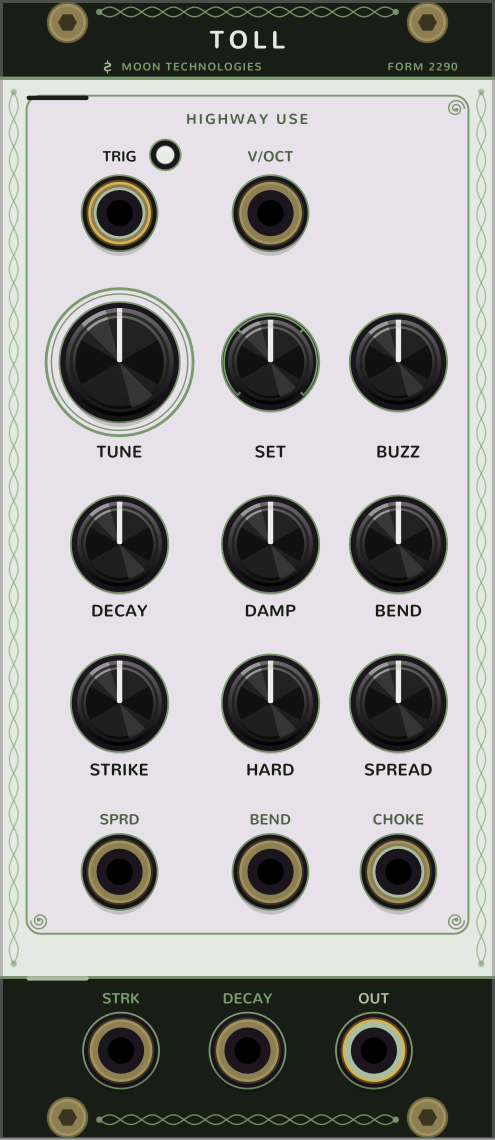
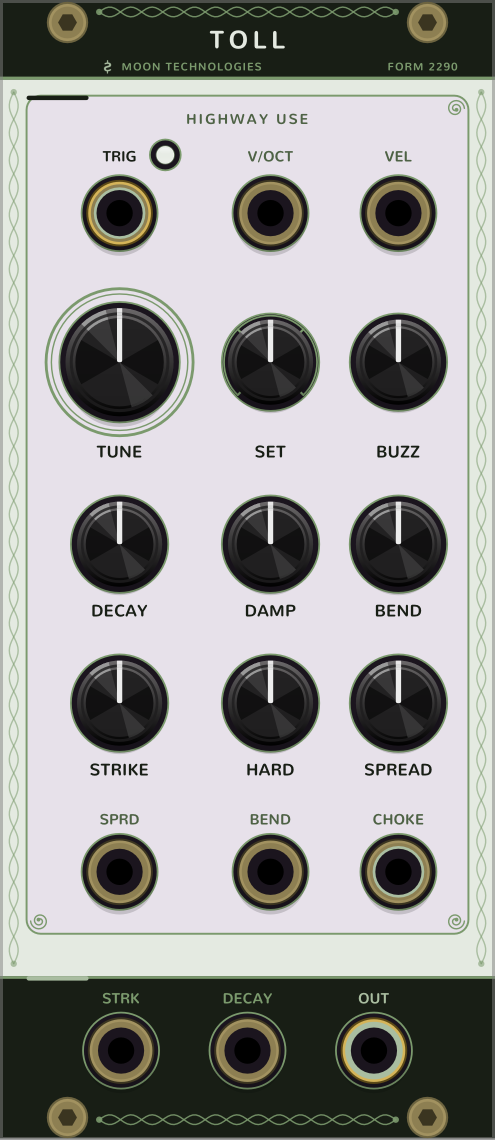
Toll: a VEL jack, for the velocity the voice always took
Item 11 of the backlog. The room was the empty cell beside V/OCT, and the
right thing to put in it turned out to be already half-built: Toll's voice
signature has taken a velocity all along, and the module called it as
voice.process(hit, 1.f, ...) -- pinned at full force, with nothing on the
panel able to say otherwise. The panel spec and the manual both already
described behaviour that could not happen: "a soft strike is a clean ring and
a hard one clatters".

VEL sits in that cell, read at the strike and nowhere else, because a strike
is an instant and what the jack does between two of them cannot matter.
Unpatched is full force, so 10 V and no cable are the same sound and no
existing patch changes. 0 V is a ghost note rather than silence: a velocity of
literally zero is a strike that never lands, and a trigger arriving while some
modulation happens to be resting at zero would read as a broken patch.

The context menu -- Toll's first -- offers TRIG's own height as the velocity
instead, since an accented trigger out of a sequencer is one cable rather than
two and the Schmitt that finds the edge throws that height away. A cable in
VEL always wins.

Five checks in tests/Toll, all watched failing. Writing them corrected what I
thought velocity did here. The claim I set out to test was that a softer
strike is duller because contact time lengthens -- and measured, that is
false: level-matched, a soft strike is very slightly *brighter*, uniformly
[…]

Changed region(s): [[0.7273, 0.1228, 0.8788, 0.2456]]

diff --git a/tests/Toll/test_voice.cpp b/tests/Toll/test_voice.cpp
@@ -386,6 +386,127 @@ static void tracking() {
 }
 
 
+/** Peak absolute value of a render. */
+static double peakOf(const float* y, int n) {
+	double p = 0.0;
+	for (int i = 0; i < n; i++) if (std::fabs(y[i]) > p) p = std::fabs(y[i]);
+	return p;
+}
+
+/** VELOCITY.
+
+    The voice always took a velocity and the panel could never set it -- it ran
+    pinned at full force -- so this is the first time any of it is exercised.
+    Two properties matter and they are different properties: that a softer
+    strike is quieter, and that it is also *duller*. The second is the reason
+    velocity is worth a jack at all. Contact time is 1/(0.6 + 0.4v), so a soft
+    strike rests on the object longer and cannot push energy as far up the
+    partial bank; if velocity were only a gain, the two renders would be the
+    same sound at two levels and the level check alone would not notice. */
+static void velocity() {
+	static const int kN = 40000;
+	static float soft[kN], hard[kN];
+	const float fs = 44100.f;
+
+	// --- the mapping ---------------------------------------------------------
+	{
+		bool ok = Toll::velocityFrom(10.f) == 1.f          // patched full = unpatched
+		       && Toll::velocityFrom(12.f) == 1.f          // and above it, clamped
+		       && Toll::velocityFrom(5.f) > 0.49f && Toll::velocityFrom(5.f) < 0.51f
+		       && Toll::velocityFrom(0.f) == kVelFloor     // a ghost note, not silence
+		       && Toll::velocityFrom(-8.f) == kVelFloor;
+		checks++;
+		if (!ok) fail("velocity mapping", "0-10 V does not map to the floor..1");
+	}
+
+	// --- a softer strike is quieter, all the way down ------------------------
+	{
+		Toll v; v.setRate(fs);
+		double prev = 1e9; int bad = 0;
+		for (int i = 10; i >= 1; i--) {
+			float vel = (float)i / 10.f;
+			render(v, vel, 2, 0.4f, 0.f, 0.5f, 0.5f, 0.3f, 0.6f, 0.f, 0.f, 0.f,
+			       soft, kN);
+			double pk = peakOf(soft, kN);
+			if (!(pk < prev)) bad++;
+			prev = pk;
+		}
+		checks++;
+		if (bad) fail("velocity", "a softer strike is not quieter");
+	}
+
+	// --- and it clatters, which is not a level difference --------------------
+	// The docstring's claim for BUZZ: "a soft strike is a clean ring and a hard
+	// one clatters". That is Bilbao's one-sided collision -- the loose layer
+	// only speaks once the body swings far enough to reach it -- so it is the
+	// one place velocity changes the *timbre* rather than the level. Both
+	// renders are normalised to the same peak first, so nothing here can be
+	// explained by the hard strike simply being louder.
+	{
+		Toll v; v.setRate(fs);
+		render(v, 1.00f, 2, 0.4f, 0.f, 0.5f, 0.5f, 0.3f, 0.6f, 0.f, 0.f, 0.8f,
+		       hard, kN);
+		render(v, 0.15f, 2, 0.4f, 0.f, 0.5f, 0.5f, 0.3f, 0.6f, 0.f, 0.f, 0.8f,
+		       soft, kN);
+		double ph = peakOf(hard, kN), ps = peakOf(soft, kN);
+		for (int i = 0; i < kN; i++) { hard[i] /= (float)ph; soft[i] /= (float)ps; }
+		double hh = highBand(hard, kN, fs, 2000.f, 0);
+		double hs = highBand(soft, kN, fs, 2000.f, 0);
+		checks++;
+		if (!(hh > hs * 2.0)) {
+			char d[144];
+			snprintf(d, sizeof d,
+			         "buzz up, level-matched: hard %.5f, soft %.5f (%.2fx)",
+			         hh, hs, hs > 0.0 ? hh / hs : 0.0);
+			fail("velocity", d);
+		}
+	}
+
+	// --- and with the layer off, it is a level control and nothing else -------
+	// The other half of the same claim, and the one that says where the
+	// brightness above comes from. With BUZZ at zero there is no collision to
+	// reach, so two velocities have to be the same sound at two levels -- if
+	// this drifted, the clatter check above could be passing on some general
+	// coupling between loudness and brightness rather than on the collision.
+	{
+		Toll v; v.setRate(fs);
+		render(v, 1.00f, 2, 0.4f, 0.f, 0.5f, 0.5f, 0.3f, 0.6f, 0.f, 0.f, 0.f,
+		       hard, kN);
+		render(v, 0.15f, 2, 0.4f, 0.f, 0.5f, 0.5f, 0.3f, 0.6f, 0.f, 0.f, 0.f,
+		       soft, kN);
+		double ph = peakOf(hard, kN), ps = peakOf(soft, kN);
+		for (int i = 0; i < kN; i++) { hard[i] /= (float)ph; soft[i] /= (float)ps; }
+		double hh = highBand(hard, kN, fs, 2000.f, 0);
+		double hs = highBand(soft, kN, fs, 2000.f, 0);
+		double ratio = hs > 0.0 ? hh / hs : 0.0;
+		checks++;
+		if (!(ratio > 0.8 && ratio < 1.25)) {
+			char d[144];
+			snprintf(d, sizeof d,
+			         "buzz off, level-matched: hard %.5f, soft %.5f (%.2fx)",
+			         hh, hs, ratio);
+			fail("velocity", d);
+		}
+	}
+
+	// --- the floor still lands ------------------------------------------------
+	// A trigger that arrives while a velocity CV happens to rest at 0 V has to
+	// make a sound. Silence there reads as a broken patch, not as a soft hit.
+	{
+		Toll v; v.setRate(fs);
+		render(v, Toll::velocityFrom(0.f), 2, 0.4f, 0.f, 0.5f, 0.5f, 0.3f, 0.6f,
+		       0.f, 0.f, 0.f, soft, kN);
+		double pk = peakOf(soft, kN);
+		checks++;
+		if (!(pk > 0.01)) {
+			char d[96];
+			snprintf(d, sizeof d, "0 V strike peaks at %.5f", pk);
+			fail("velocity", d);
+		}
+	}
+}
+
+
 int main() {
 	printf("Toll voice\n");
 	printf("  sweeping 44100 Hz...\n"); sweep(44100.f);
@@ -395,6 +516,7 @@ int main() {
 	printf("  spread...\n");            spreadIsMonotone();
 	printf("  sample rates...\n");      sampleRates();
 	printf("  v/oct...\n");             tracking();
+	printf("  velocity...\n");          velocity();
 	printf("%d checks, %d failures\n", checks, failures);
 	return failures ? 1 : 0;
 }

diff --git a/src/Toll/Toll.cpp b/src/Toll/Toll.cpp
@@ -14,7 +14,9 @@ struct TollModule : Module {
 	};
 	enum InputId {
 		TRIG_INPUT, VOCT_INPUT, STRIKE_CV_INPUT, DECAY_CV_INPUT,
-		SPREAD_CV_INPUT, BEND_CV_INPUT, CHOKE_INPUT, INPUTS_LEN
+		SPREAD_CV_INPUT, BEND_CV_INPUT, CHOKE_INPUT,
+		VEL_INPUT,
+		INPUTS_LEN
 	};
 	enum OutputId { OUT_OUTPUT, OUTPUTS_LEN };
 	enum LightId { HIT_LIGHT, LIGHTS_LEN };
@@ -24,6 +26,7 @@ struct TollModule : Module {
 	dsp::ClockDivider lightDivider;
 	bool litSince = false;
 	float ledLevel = 0.f;
+	bool velFromTrig = false;
 
 	TollModule() {
 		config(PARAMS_LEN, INPUTS_LEN, OUTPUTS_LEN, LIGHTS_LEN);
@@ -42,6 +45,7 @@ struct TollModule : Module {
 
 		configInput(TRIG_INPUT, "Trigger");
 		configInput(VOCT_INPUT, "V/oct");
+		configInput(VEL_INPUT, "Velocity (0-10 V, full force unpatched)");
 		configInput(STRIKE_CV_INPUT, "Strike position CV");
 		configInput(DECAY_CV_INPUT, "Decay CV");
 		configInput(SPREAD_CV_INPUT, "Spread CV");
@@ -66,9 +70,33 @@ struct TollModule : Module {
 		ledLevel = 0.f;
 	}
 
+	json_t* dataToJson() override {
+		json_t* root = json_object();
+		json_object_set_new(root, "velFromTrig", json_boolean(velFromTrig));
+		return root;
+	}
+
+	void dataFromJson(json_t* root) override {
+		json_t* j = json_object_get(root, "velFromTrig");
+		if (j) velFromTrig = json_boolean_value(j);
+	}
+
 	void process(const ProcessArgs& args) override {
-		bool hit = trig.process(inputs[TRIG_INPUT].getVoltage(), 0.1f, 1.f);
+		float trigV = inputs[TRIG_INPUT].getVoltage();
+		bool hit = trig.process(trigV, 0.1f, 1.f);
 		if (hit) litSince = true;
+
+		// How hard. Read at the strike and nowhere else -- a strike is an
+		// instant, so what the jack does between two of them cannot matter.
+		// Unpatched is full force, which is what the voice did before it had
+		// the jack, so no existing patch changes. TRIG's own height is offered
+		// as the alternative because an accented trigger out of a sequencer is
+		// one cable rather than two, and the Schmitt discards that height.
+		float vel = 1.f;
+		if (inputs[VEL_INPUT].isConnected())
+			vel = toll::Toll::velocityFrom(inputs[VEL_INPUT].getVoltage());
+		else if (velFromTrig)
+			vel = toll::Toll::velocityFrom(trigV);
 
 		float volts = inputs[VOCT_INPUT].isConnected() ? inputs[VOCT_INPUT].getVoltage() : 0.f;
 
@@ -93,7 +121,7 @@ struct TollModule : Module {
 		bool choke = inputs[CHOKE_INPUT].getVoltage() >= 1.f;
 		int set = (int)clamp(std::round(params[SET_PARAM].getValue()), 0.f, 3.f);
 
-		float y = voice.process(hit, 1.f, set,
+		float y = voice.process(hit, vel, set,
 			params[TUNE_PARAM].getValue(), volts,
 			dec, params[DAMP_PARAM].getValue(), pos,
 			params[HARD_PARAM].getValue(), spr, bnd,
@@ -125,6 +153,7 @@ struct TollWidget : ModuleWidget {
 
 		addInput(createInputCentered<panel::PortTrigInMain>(panel::mm(panel::TRIG_POS.x, panel::TRIG_POS.y), module, TollModule::TRIG_INPUT));
 		addInput(createInputCentered<panel::PortIn>(panel::mm(panel::VOCT_POS.x, panel::VOCT_POS.y), module, TollModule::VOCT_INPUT));
+		addInput(createInputCentered<panel::PortIn>(panel::mm(panel::VEL_POS.x, panel::VEL_POS.y), module, TollModule::VEL_INPUT));
 		addChild(createLightCentered<SmallLight<panel::PaperLight> >(
 			panel::mm(panel::HIT_LED_POS.x, panel::HIT_LED_POS.y), module, TollModule::HIT_LIGHT));
 
@@ -147,6 +176,15 @@ struct TollWidget : ModuleWidget {
 		addInput(createInputCentered<panel::PortIn>(panel::mm(panel::STRIKE_CV_POS.x, panel::STRIKE_CV_POS.y), module, TollModule::STRIKE_CV_INPUT));
 		addInput(createInputCentered<panel::PortIn>(panel::mm(panel::DECAY_CV_POS.x, panel::DECAY_CV_POS.y), module, TollModule::DECAY_CV_INPUT));
 		addOutput(createOutputCentered<panel::PortOutMain>(panel::mm(panel::OUT_POS.x, panel::OUT_POS.y), module, TollModule::OUT_OUTPUT));
+	}
+
+	void appendContextMenu(Menu* menu) override {
+		TollModule* m = dynamic_cast<TollModule*>(module);
+		if (!m)
+			return;
+		menu->addChild(new MenuSeparator);
+		menu->addChild(createBoolPtrMenuItem<bool>(
+			"Trigger height sets velocity", "", &m->velFromTrig));
 	}
 };
 

diff --git a/src/Toll/Voice.hpp b/src/Toll/Voice.hpp
@@ -180,6 +180,9 @@ struct Bank {
 
 
 /** The voice. One strike in, one signal out. */
+/** The softest a strike can be and still be a strike. */
+static const float kVelFloor = 0.05f;
+
 struct Toll {
 	Bank bank;
 	Tension tension;
@@ -199,6 +202,28 @@ struct Toll {
 	void reset() {
 		bank.reset(); tension.reset(); bed.reset(); strike.reset();
 		attack.reset(); dc.reset(); freqC.clear(); t60C.clear();
+	}
+
+	/** How hard it is hit, from a control voltage.
+
+	    Velocity was always in the voice -- a harder strike is a *shorter*
+	    contact, which reaches further up the partial bank and drives the loose
+	    layer past its collision, so it changes the timbre and not just the
+	    level -- but nothing on the panel could set it, and it ran pinned at
+	    full force.
+
+	    0 V does not mean silence. A velocity of exactly zero is a strike that
+	    never lands, so a trigger arriving while some modulation happens to be
+	    resting at zero would do nothing at all and read as a broken patch;
+	    the floor makes that a ghost note instead, which is also what it
+	    sounds like to barely catch a bell. */
+	static float velocityFrom(float volts) {
+		float v = volts * 0.1f;
+		if (!(v > kVelFloor))            // and this catches a NaN on the jack
+			v = kVelFloor;
+		if (v > 1.f)
+			v = 1.f;
+		return v;
 	}
 
 	/** All controls 0..1 except `set` (which ratio table) and `volts` (V/oct).

diff --git a/src/Toll/Panel.hpp b/src/Toll/Panel.hpp
@@ -27,6 +27,7 @@ static const Label LABELS[] = {
 	{ 27.9400f,  14.0000f,  6.00f, 0.60f, SAGE_DARK, NVG_ALIGN_CENTER | NVG_ALIGN_BASELINE, false, "HIGHWAY USE"},
 	{ 13.5000f,  18.2459f,  6.20f, 0.00f, INK      , NVG_ALIGN_CENTER | NVG_ALIGN_BASELINE, false, "TRIG"},
 	{ 30.5400f,  18.2459f,  6.20f, 0.00f, SAGE_DARK, NVG_ALIGN_CENTER | NVG_ALIGN_BASELINE, false, "V/OCT"},
+	{ 44.9800f,  18.2459f,  6.20f, 0.00f, SAGE_DARK, NVG_ALIGN_CENTER | NVG_ALIGN_BASELINE, false, "VEL"},
 	{ 13.5000f,  51.6947f,  7.00f, 0.00f, INK      , NVG_ALIGN_CENTER | NVG_ALIGN_BASELINE, false, "TUNE"},
 	{ 30.5400f,  51.6947f,  7.00f, 0.00f, INK      , NVG_ALIGN_CENTER | NVG_ALIGN_BASELINE, false, "SET"},
 	{ 44.9800f,  51.6947f,  7.00f, 0.00f, INK      , NVG_ALIGN_CENTER | NVG_ALIGN_BASELINE, false, "BUZZ"},
@@ -54,6 +55,7 @@ static inline void addLabels(app::ModuleWidget* mw) {
 // Positions are mm; feed them to mm() or createParamCentered.
 static const Vec TRIG_POS = Vec(13.5000, 24.0608);
 static const Vec VOCT_POS = Vec(30.5400, 24.0608);
+static const Vec VEL_POS = Vec(44.9800, 24.0608);
 static const Vec HIT_LED_POS = Vec(18.6597, 17.4900);
 static const Vec TUNE_POS = Vec(13.5000, 40.8878);
 static const Vec SET_POS = Vec(30.5400, 40.8878);

diff --git a/tools/panels/Toll.py b/tools/panels/Toll.py
@@ -33,9 +33,13 @@ P = Panel(
 P.sections = [
     # 2290 is the Heavy Highway Vehicle Use Tax -- the toll, filed.
     Section("HIGHWAY USE", rows=[
-        # What plays it.
+        # What plays it. VEL is the third thing a struck object needs and the
+        # only one the voice could not be told: how hard. Unpatched it is a
+        # full-force strike, which is what the module did before it had the
+        # jack.
         Row([Jack("trig", "TRIG", ink="PAPER", light="hit_led"),
-             Jack("voct", "V/OCT")]),
+             Jack("voct", "V/OCT"),
+             Jack("vel", "VEL")]),
 
         # What it is. TUNE is the one control you reach for, so it gets the big
         # seat and the lime ring. SET is what the thing is made of -- a

diff --git a/docs/Toll.md b/docs/Toll.md
@@ -64,15 +64,31 @@ cast. At zero it is exactly the printed ratios.
 | **SPRD**, **BEND** (inputs) | CV for the partial stretch and the tension bend. |
 | **CHOKE** (input) | The hand on the bell. A gate — a level, not an edge — that shortens the ring to 35 ms for as long as it is held. It damps rather than mutes, because a damped object still rings briefly and a gated one conspicuously does not. |
 | **TRIG** (input) | ≥1 V rising edge strikes it (Schmitt hysteresis, low 0.1 V / high 1 V). Lights on strike. Retriggerable. |
+| **VEL** (input) | How hard, 0–10 V, read at the strike and nowhere else — a strike is an instant, so what the jack does between two of them cannot matter. Unpatched is full force, exactly what the voice did before the jack existed, so 10 V and no cable are the same sound. 0 V is not silence but a ghost note: a velocity of literally zero is a strike that never lands, and a trigger arriving while some modulation happens to be resting at zero would read as a broken patch. |
 | **OUT** | ±5 V nominal, hard-clamped to ±12 V. |
 
 The four CV jacks add to their knobs at a tenth of a volt per percent, so ±5 V
 covers a whole control and a unipolar 0–10 V reaches from its bottom to its top.
+
+### What velocity actually changes
+
+Mostly the level — but with BUZZ up it changes the sound. The loose layer is a
+one-sided collision, so it only speaks once the body swings far enough to reach
+it: level-matched against a full-force strike, a strike at 15% has about a
+quarter of the energy above 2 kHz, because it never reaches the layer at all.
+With BUZZ at 0 there is nothing to reach and velocity is a level control and
+little else. Contact time does shorten with velocity as well (1/(0.6 + 0.4·v),
+so a hard strike rests on the object for about two thirds as long), but that is
+a factor of 1.5 against HARD's factor of nine, and HARD is what you reach for
+if you want the mallet to change.
 
 ## What it does not have
 
 **No clock and no patterns.** Kickback has those, and a voice you want to play
 from a keyboard should not come with a sequencer attached to it.
 
-It is monophonic, and there is no context menu — every control the voice has is
-on the panel.
+It is monophonic. The context menu has one option, **Trigger height sets
+velocity**: with nothing patched to VEL, TRIG's own voltage is read as the
+velocity instead of a fixed full force. An accented trigger out of a sequencer
+is then one cable rather than two — the Schmitt that detects the edge throws
+that height away otherwise. Off by default, and a cable in VEL always wins.
